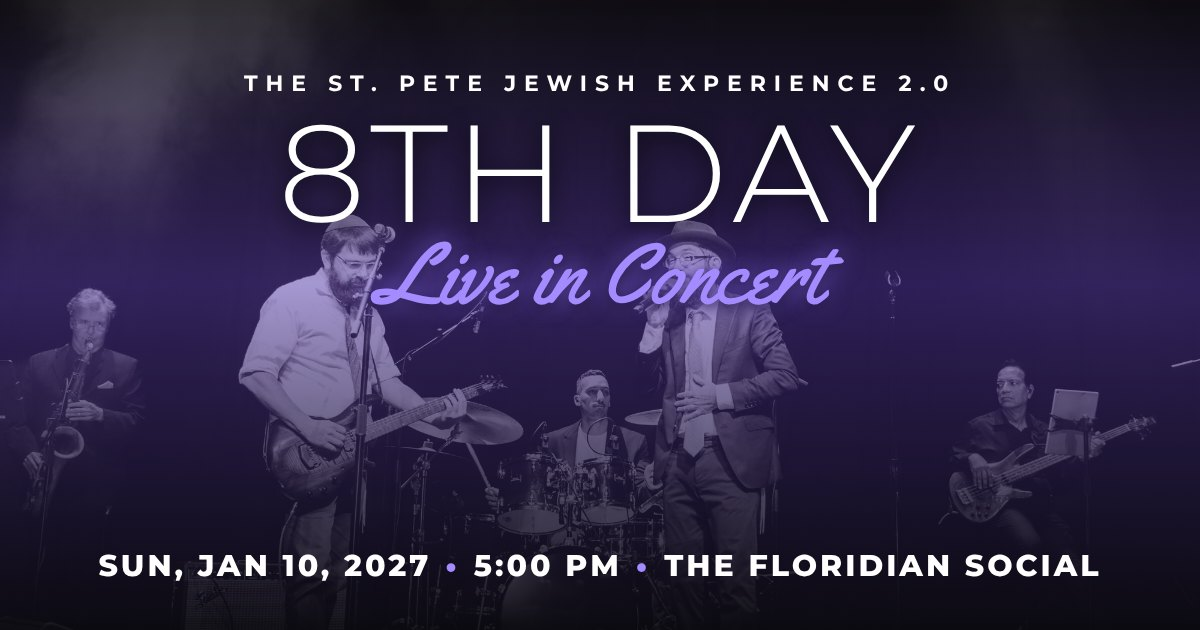
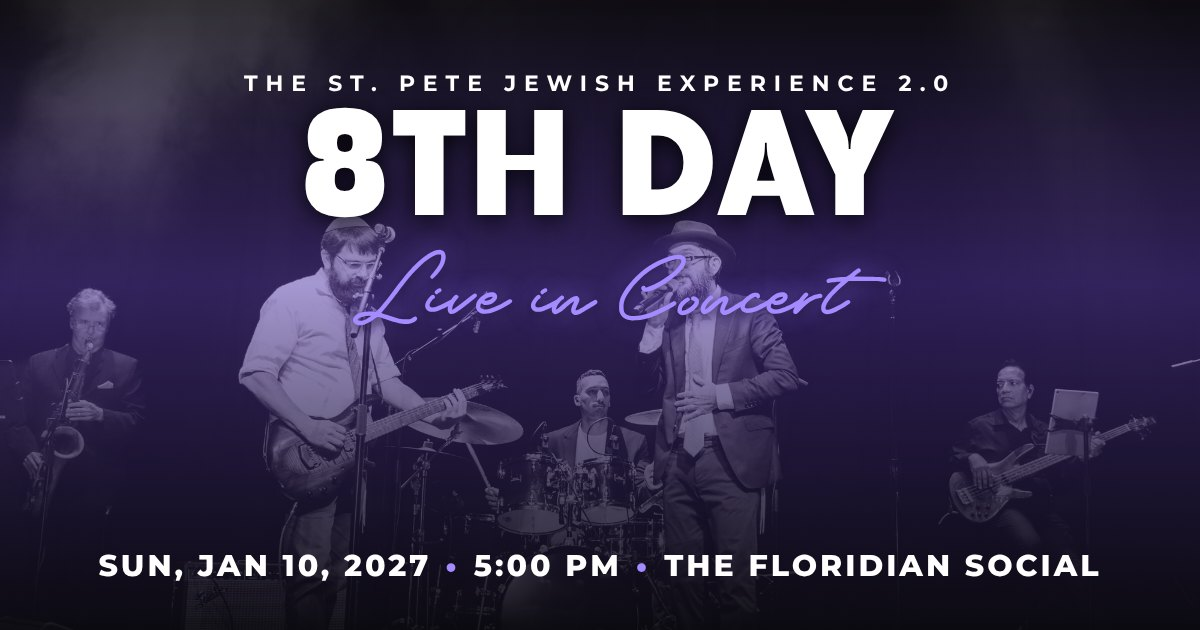
Use the designer's brand fonts on the website
Roketto for headings and Vintage Signature for script accents, matching
the poster. Fonts are served from fonts/ as woff2 and preloaded. Share
image regenerated with the same fonts.

Claude-Session: https://claude.ai/code/session_01VDBkrFKkRHgCXZXRburjhn

Changed region(s): [[0.2158, 0.1508, 0.7708, 0.5429]]

diff --git a/index.html b/index.html
@@ -34,8 +34,10 @@
 <link rel="apple-touch-icon" href="apple-touch-icon.png?v=3">
 <link rel="preconnect" href="https://fonts.googleapis.com">
 <link rel="preconnect" href="https://fonts.gstatic.com" crossorigin>
-<link href="https://fonts.googleapis.com/css2?family=Montserrat:wght@300;400;600;700;800&family=Yellowtail&display=swap" rel="stylesheet">
+<link href="https://fonts.googleapis.com/css2?family=Montserrat:wght@300;400;600;700;800&display=swap" rel="stylesheet">
 <link rel="preload" as="image" href="photos/hero-8th-day.jpg">
+<link rel="preload" as="font" type="font/woff2" href="fonts/roketto.woff2" crossorigin>
+<link rel="preload" as="font" type="font/woff2" href="fonts/vintage-signature.woff2" crossorigin>
 
 <script type="application/ld+json">
 {
@@ -69,12 +71,17 @@
 </script>
 
 <style>
+  /* ---------- Brand fonts from the designer (same as the poster) ---------- */
+  @font-face{font-family:'Roketto'; src:url('fonts/roketto.woff2') format('woff2'); font-weight:400; font-style:normal; font-display:swap}
+  @font-face{font-family:'Vintage Signature'; src:url('fonts/vintage-signature.woff2') format('woff2'); font-weight:400; font-style:normal; font-display:swap}
+
   /* ---------- Colors & basics (change colors here) ---------- */
   :root{
     --bg:#0a0910; --bg-2:#100e18; --bg-3:#0e0d14; --line:#1f1b2c; --line-2:#2a2440;
     --text:#e7e3f0; --muted:#c9c2db; --dim:#9a92b4;
     --accent:#a48bff; --button:#5b3fe0; --button-hover:#6f55f0;
-    --script:'Yellowtail','Brush Script MT','Segoe Script',cursive;
+    --script:'Vintage Signature','Brush Script MT','Segoe Script',cursive;
+    --display:'Roketto','Montserrat','Helvetica Neue',Arial,sans-serif;
     --wrap:1140px;
   }
   *,*::before,*::after{box-sizing:border-box}
@@ -95,7 +102,7 @@
   /* ---------- Top navigation ---------- */
   .nav{position:fixed; top:0; left:0; right:0; z-index:50; background:rgba(6,5,9,.82); backdrop-filter:blur(10px); -webkit-backdrop-filter:blur(10px); border-bottom:1px solid var(--line)}
   .nav .wrap{display:flex; align-items:center; justify-content:space-between; gap:16px; height:62px}
-  .brand{font-family:Georgia,'Times New Roman',serif; font-size:16px; letter-spacing:3px; text-transform:uppercase; text-decoration:none; color:#fff; white-space:nowrap}
+  .brand{font-family:var(--display); font-size:17px; letter-spacing:1.5px; text-transform:uppercase; text-decoration:none; color:#fff; white-space:nowrap}
   .nav-links{display:flex; gap:26px; list-style:none; margin:0; padding:0}
   .nav-links a{font-size:12px; font-weight:600; letter-spacing:2px; text-transform:uppercase; text-decoration:none; color:var(--muted)}
   .nav-links a:hover{color:#fff}
@@ -106,9 +113,9 @@
   .hero-img{position:absolute; inset:0; width:100%; height:100%; object-fit:cover; object-position:center 60%; z-index:-2}
   .hero::before{content:""; position:absolute; inset:0; z-index:-1; background:linear-gradient(180deg, rgba(10,9,16,.75) 0%, rgba(70,40,170,.35) 40%, rgba(10,9,16,.55) 70%, var(--bg) 100%)}
   .eyebrow{margin:0 0 6px; color:#fff; font-size:13px; font-weight:700; letter-spacing:6px; text-transform:uppercase}
-  .hero h1{margin:0; font-size:clamp(56px,13vw,150px); font-weight:300; line-height:.95; letter-spacing:4px; text-transform:uppercase; text-shadow:0 4px 24px rgba(0,0,0,.85)}
+  .hero h1{margin:0; font-family:var(--display); font-size:clamp(60px,14vw,160px); font-weight:400; line-height:.95; letter-spacing:2px; text-transform:uppercase; text-shadow:0 4px 24px rgba(0,0,0,.85)}
   .script{font-family:var(--script); color:var(--accent); font-weight:400}
-  .hero .script{display:block; margin-top:-.1em; font-size:clamp(40px,8vw,90px); line-height:1.1; letter-spacing:0; text-transform:none; text-shadow:0 0 22px rgba(140,110,255,.8), 0 3px 12px rgba(0,0,0,.9)}
+  .hero .script{display:block; margin-top:.05em; font-size:clamp(46px,9.5vw,108px); line-height:1.15; letter-spacing:0; text-transform:none; text-shadow:0 0 22px rgba(140,110,255,.8), 0 3px 12px rgba(0,0,0,.9)}
   .hero-tag{margin:10px 0 0; font-size:clamp(11px,1.6vw,14px); font-weight:700; letter-spacing:4px; text-transform:uppercase; text-shadow:0 2px 10px rgba(0,0,0,.9)}
   .hero-when{margin:26px 0 30px; font-size:clamp(14px,2.2vw,18px); font-weight:700; letter-spacing:2px; text-transform:uppercase}
   .hero-when span{color:var(--accent); padding:0 8px}
@@ -121,18 +128,18 @@
 
   /* ---------- Generic sections ---------- */
   .section{padding:80px 0}
-  .section-title{margin:0 0 8px; color:#fff; font-size:clamp(28px,4vw,38px); font-weight:300; letter-spacing:3px}
+  .section-title{margin:0 0 8px; color:#fff; font-family:var(--display); font-size:clamp(30px,4.4vw,42px); font-weight:400; letter-spacing:1px}
   .section-sub{margin:0 auto 40px; max-width:620px; color:var(--dim); font-size:15px}
   .alt{background:var(--bg-3); border-top:1px solid var(--line); border-bottom:1px solid var(--line)}
 
   /* Intro */
   .intro p.lead{max-width:680px; margin:0 auto; font-size:17px; color:#d6d0e6}
-  .intro .script{font-size:clamp(30px,5vw,42px); line-height:1.2; margin:0 0 18px}
+  .intro .script{font-size:clamp(36px,6vw,54px); line-height:1.3; margin:0 0 18px}
 
   /* About the night: text + photo side by side, stacked on phones */
   .about{display:grid; grid-template-columns:1fr 1fr; background:var(--bg-2); border-top:1px solid var(--line); border-bottom:1px solid var(--line)}
   .about-text{padding:60px 48px; display:flex; flex-direction:column; justify-content:center; align-items:center}
-  .about-text h2{margin:0 0 8px; font-size:28px; font-weight:300; letter-spacing:3px; text-transform:uppercase; color:#fff}
+  .about-text h2{margin:0 0 8px; font-family:var(--display); font-size:32px; font-weight:400; letter-spacing:1px; text-transform:uppercase; color:#fff}
   .quote{margin:0 0 16px; font-weight:700; font-style:italic; color:#fff}
   .about-text p{color:var(--muted); font-size:15px}
   .about-text .quote{color:#fff}
@@ -151,10 +158,10 @@
   .card img{width:100%; aspect-ratio:1/1; object-fit:cover; object-position:center 25%}
   .card-body{padding:22px 22px 26px}
   .badge{display:inline-block; margin:0 0 8px; padding:3px 10px; background:var(--button); color:#fff; font-size:10px; font-weight:800; letter-spacing:2px; text-transform:uppercase; border-radius:4px}
-  .card h3{margin:0; color:#fff; font-size:18px; font-weight:700; letter-spacing:2px; text-transform:uppercase}
+  .card h3{margin:0; color:#fff; font-family:var(--display); font-size:21px; font-weight:400; letter-spacing:1px; text-transform:uppercase}
   .card .role{margin:0 0 12px; color:var(--accent); font-size:13px; font-style:italic}
   .card p{margin:0 0 10px; color:var(--muted); font-size:14px}
-  .pride{margin:50px 0 4px; font-size:clamp(16px,2.4vw,20px); font-weight:800; color:#fff; letter-spacing:3px; text-transform:uppercase}
+  .pride{margin:50px 0 4px; font-family:var(--display); font-size:clamp(19px,2.8vw,24px); font-weight:400; color:#fff; letter-spacing:1.5px; text-transform:uppercase}
 
   /* Video */
   .video{max-width:820px; margin:0 auto; aspect-ratio:16/9; border-radius:10px; overflow:hidden; box-shadow:0 10px 40px rgba(0,0,0,.8), 0 0 30px rgba(140,110,255,.25); background:#000}
@@ -173,7 +180,7 @@
   .reels-row{display:flex; justify-content:center; gap:24px; flex-wrap:wrap}
   .reel{width:100%; max-width:380px; height:680px; border:0; border-radius:12px; background:#fff; box-shadow:0 10px 40px rgba(0,0,0,.8), 0 0 30px rgba(140,110,255,.2)}
   .gallery-cta{padding:50px 20px 70px}
-  .gallery-cta p{margin:0 0 18px; color:#fff; font-size:24px; font-weight:300; letter-spacing:3px}
+  .gallery-cta p{margin:0 0 18px; color:#fff; font-family:var(--display); font-size:28px; font-weight:400; letter-spacing:1px}
 
   /* Sponsorship */
   .sponsor{border-top:2px solid #5b46c9}
@@ -181,7 +188,7 @@
   .tier{padding:26px 10px; background:#151225; border:1px solid #3a2f66; border-radius:8px}
   .tier.top{background:#1b1435; border:2px solid var(--accent)}
   .tier small{display:block; margin:0 0 6px; color:var(--accent); font-size:11px; font-weight:700; letter-spacing:2px; text-transform:uppercase}
-  .tier b{color:#fff; font-size:26px; font-weight:800}
+  .tier b{color:#fff; font-family:var(--display); font-size:28px; font-weight:400}
   .sponsor .btn-outline{margin-top:34px}
   .sponsor .or{margin:14px 0 0; font-size:13px; color:var(--dim)}
   .sponsor .or a{color:#c7b6ff}
@@ -191,7 +198,7 @@
   .thanks h2{margin:0 0 30px; color:#fff; font-size:16px; font-weight:700; letter-spacing:4px; text-transform:uppercase}
   .label{margin:0 0 2px; color:var(--accent); font-size:11px; font-weight:700; letter-spacing:4px; text-transform:uppercase}
   .name{margin:0 0 24px; color:#fff; font-size:18px}
-  .name.big{font-size:22px; font-weight:300; letter-spacing:2px; text-transform:uppercase; margin-bottom:4px}
+  .name.big{font-family:var(--display); font-size:24px; font-weight:400; letter-spacing:1px; text-transform:uppercase; margin-bottom:4px}
   .thanks .note{margin:0 auto 26px; max-width:500px; font-size:13px; color:var(--dim)}
   footer{background:#050409; padding:24px 0 30px; border-top:1px solid var(--line); font-size:12px; color:#7d7596}
   footer a{color:#c7b6ff}
@@ -210,7 +217,7 @@
 
   /* ---------- Phone ---------- */
   @media (max-width:700px){
-    .brand{font-size:13px; letter-spacing:2px; margin:0 auto}
+    .brand{font-size:15px; letter-spacing:1px; margin:0 auto}
     .nav .btn{display:none}
     .section{padding:60px 0}
     .about{grid-template-columns:1fr}

diff --git a/CLAUDE.md b/CLAUDE.md
@@ -32,7 +32,12 @@ Lineup: 8th Day (headliner), the Lebovics Brothers Choir, comedian Eli Lebowicz 
 ## Design
 Dark concert-website style (inspired by reference/style-inspiration.jpg), colors from the poster:
 background #0a0910, accent purple #a48bff, button purple #5b3fe0, white headings.
-Script accents use 'Brush Script MT', 'Segoe Script', cursive.
+Script accents use 'Brush Script MT', 'Segoe Script', cursive (Ticket Tailor page).
+Website brand fonts from the designer, in `fonts/` (web format .woff2):
+- Roketto: bold headings (8th Day title, section titles, card names, prices).
+- Vintage Signature: script accents ("Live in Concert", "A Celebration of Jewish Life & Culture").
+- Montserrat (Google Fonts) stays for body text, buttons and small labels. Roketto has no "•" character.
+Ticket Tailor cannot load custom fonts (no <style>/@font-face allowed), so the Ticket Tailor page keeps the fallbacks.
 Four "Buy Tickets" buttons link to https://www.tickettailor.com/events/chabadjewishcenterofstpetersburg/2511961
 (confirm this link works once the event is published).
 Sponsorship tiers: Diamond $18,000, Platinum $10,000, Gold $7,200, Silver $5,000, Am Yisrael Chai $1,800.
